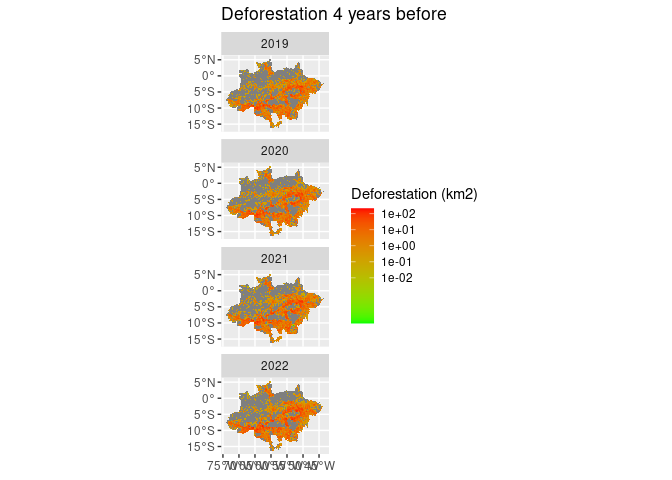
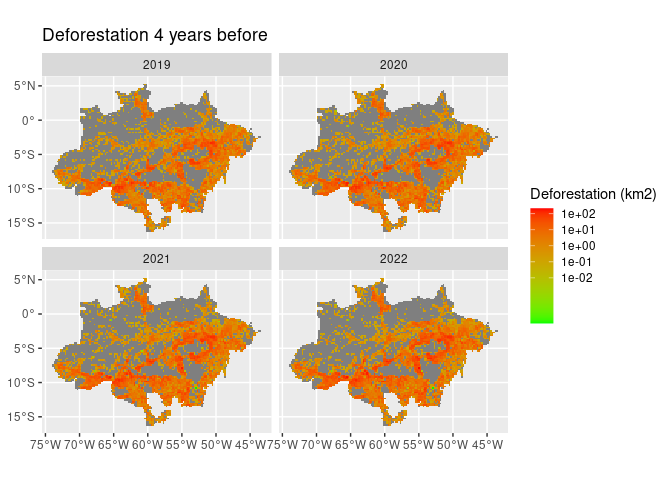
Tinkering with the figures.

diff --git a/README.md b/README.md
@@ -4,6 +4,8 @@
 # prioritizedeforestationhotspots
 
 <!-- badges: start -->
+
+[![R-CMD-check](https://github.com/albhasan/prioritizedeforestationhotspots/actions/workflows/R-CMD-check.yaml/badge.svg)](https://github.com/albhasan/prioritizedeforestationhotspots/actions/workflows/R-CMD-check.yaml)
 <!-- badges: end -->
 
 This package introduces a method for prioritizing deforestation hotspots
@@ -178,7 +180,7 @@ def_sf %>%
                         breaks = c(0.01, 0.10, 1, 10, 100),
                         low = "green",
                         high = "red") +
-    facet_wrap(~ref_year, ncol = 1) +
+    facet_wrap(~ref_year) +
     ggtitle("Deforestation in the year before")
 #> Warning: Transformation introduced infinite values in discrete y-axis
 ```
@@ -195,7 +197,7 @@ def_sf %>%
                         breaks = c(0.01, 0.10, 1, 10, 100),
                         low = "green",
                         high = "red") +
-    facet_wrap(~ref_year, ncol = 1) +
+    facet_wrap(~ref_year) +
     ggtitle("Deforestation 2 years before")
 #> Warning: Transformation introduced infinite values in discrete y-axis
 ```
@@ -212,7 +214,7 @@ def_sf %>%
                         breaks = c(0.01, 0.10, 1, 10, 100),
                         low = "green",
                         high = "red") +
-    facet_wrap(~ref_year, ncol = 1) +
+    facet_wrap(~ref_year) +
     ggtitle("Deforestation 4 years before")
 #> Warning: Transformation introduced infinite values in discrete y-axis
 ```
@@ -230,7 +232,7 @@ def_sf %>%
                         breaks = c(25, 50, 100, 250, 500, 900),
                         low = "green",
                         high = "red") +
-    facet_wrap(~ref_year, ncol = 1) +
+    facet_wrap(~ref_year) +
     ggtitle(paste("Distance to the closest grid centroid with more than 1%",
                   "deforestation in year before"))
 ```
@@ -248,7 +250,7 @@ def_sf %>%
                         breaks = c(25, 50, 100, 250, 500, 1000),
                         low = "green",
                         high = "red") +
-    facet_wrap(~ref_year, ncol = 1) +
+    facet_wrap(~ref_year) +
     ggtitle(paste("Distance to the closest grid centroid with more than 2%",
                   "deforestation in year before"))
 ```
@@ -265,7 +267,7 @@ def_sf %>%
                         breaks = c(1, 5, 50, 500),
                         low = "green",
                         high = "red") +
-    facet_wrap(~ref_year, ncol = 1) +
+    facet_wrap(~ref_year) +
     ggtitle("Number of active fires in the year before")
 #> Warning: Transformation introduced infinite values in discrete y-axis
 ```
